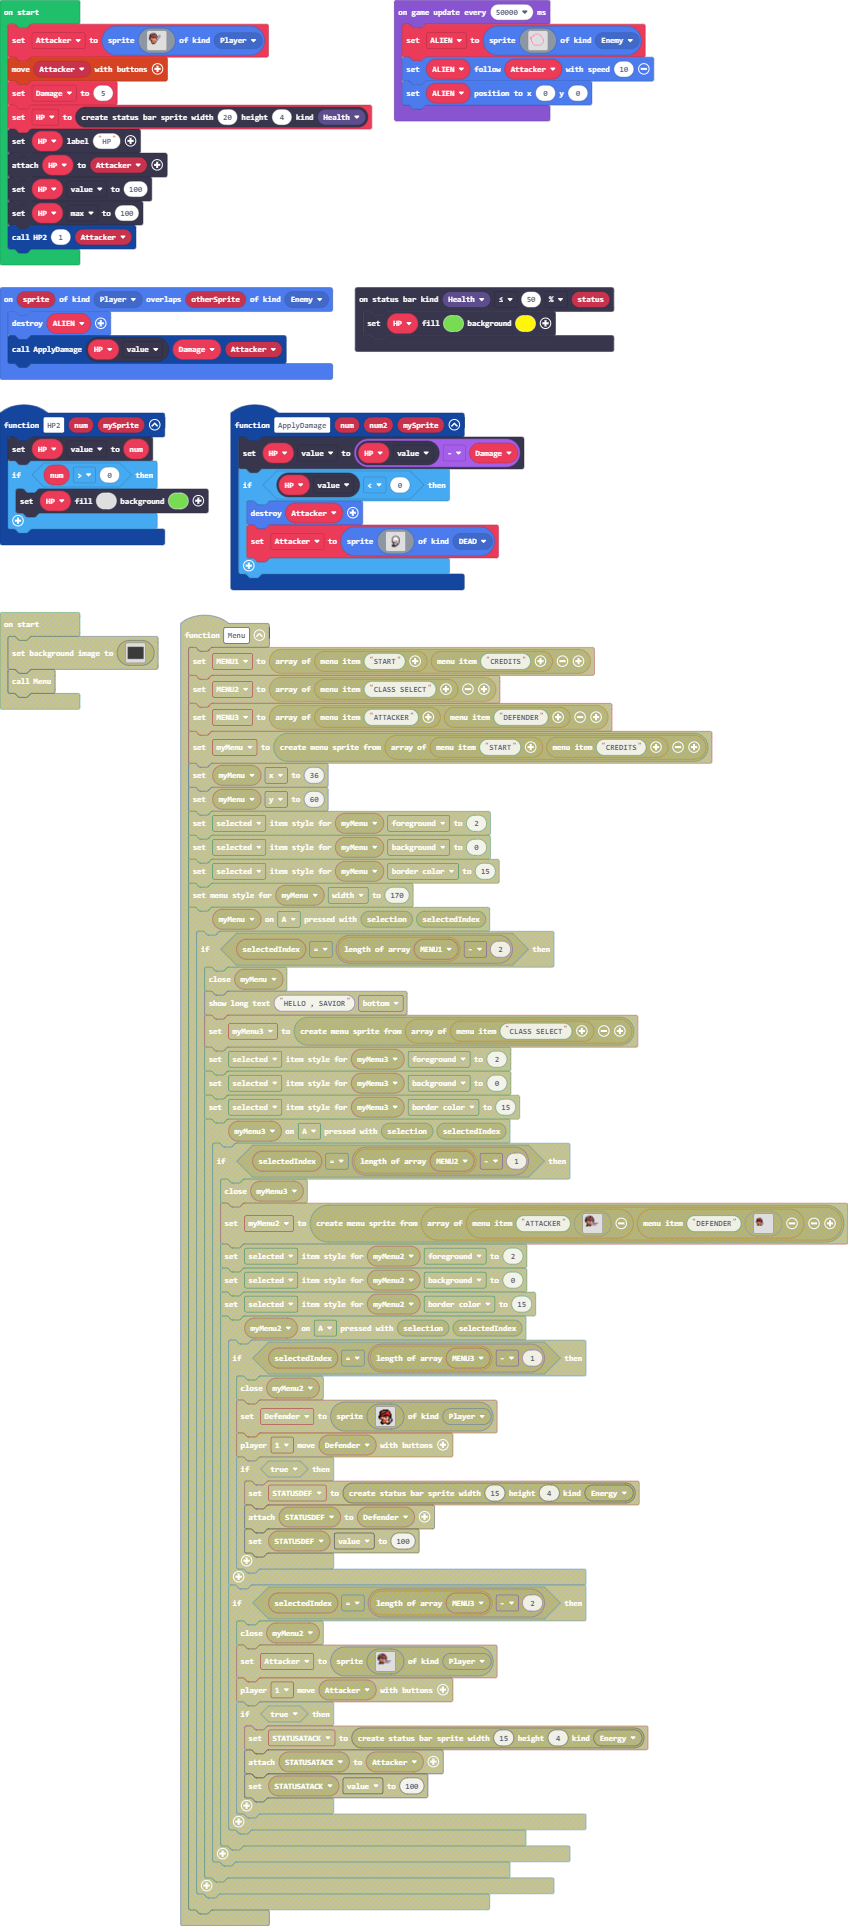
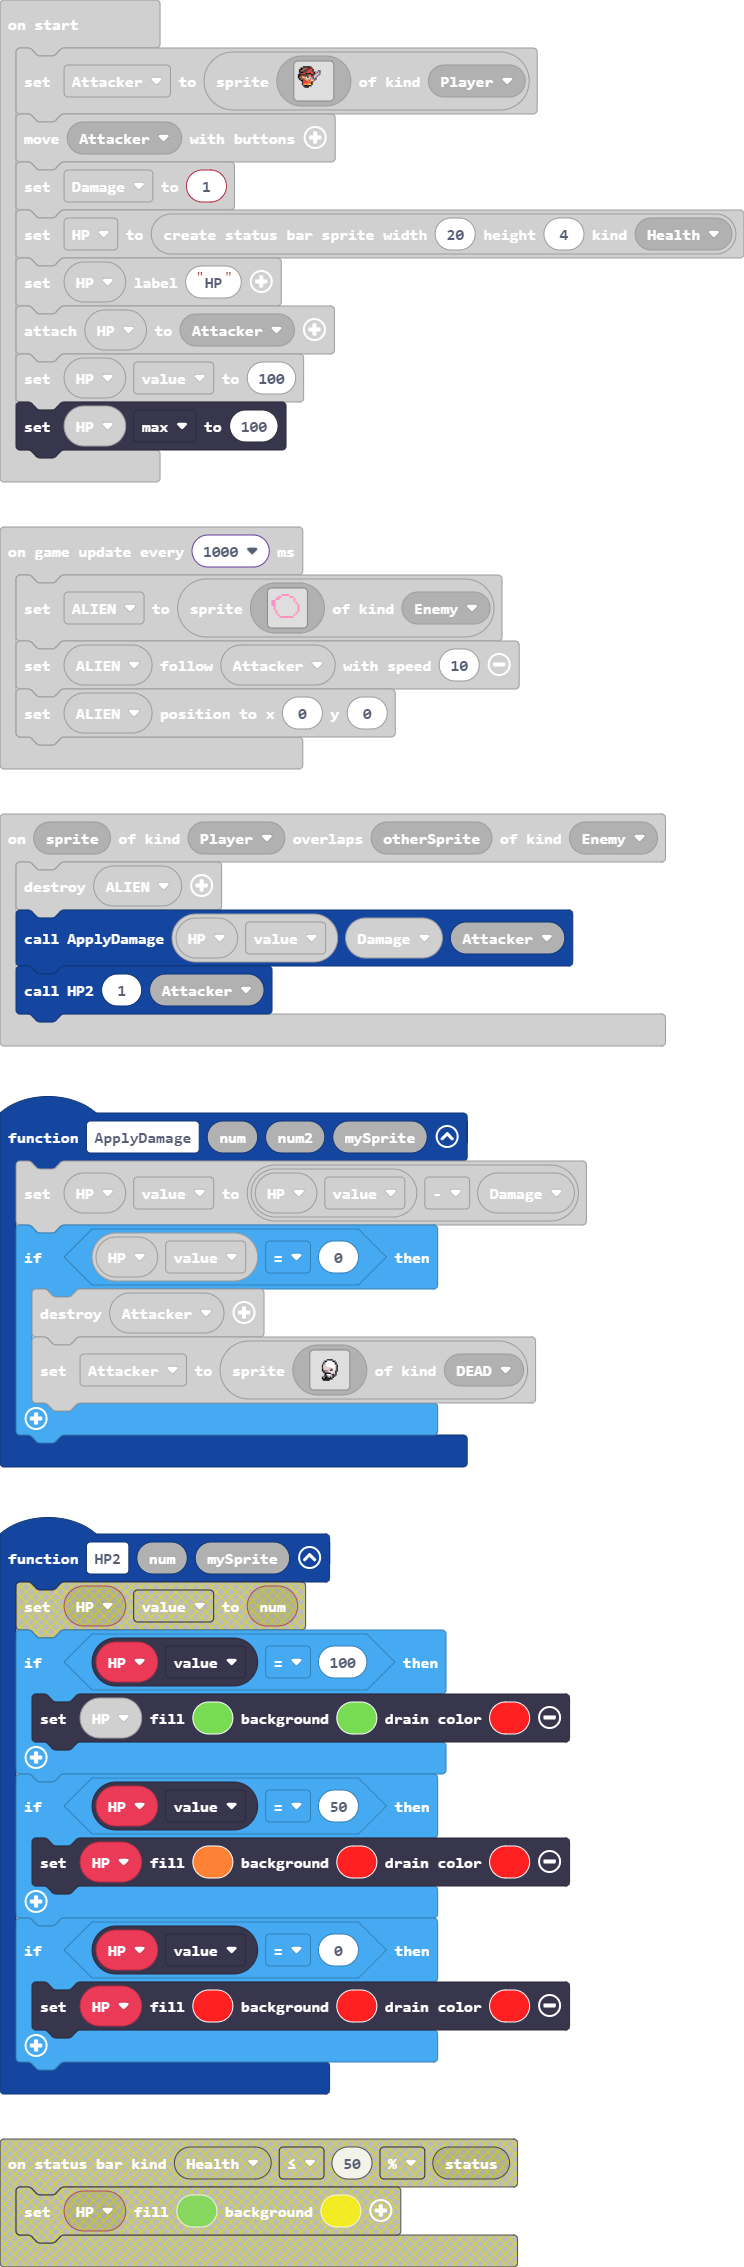
Update main.blocks, main.ts

diff --git a/main.ts b/main.ts
@@ -1,18 +1,20 @@
 namespace SpriteKind {
     export const DEAD = SpriteKind.create()
 }
-statusbars.onStatusReached(StatusBarKind.Health, statusbars.StatusComparison.LTE, statusbars.ComparisonType.Percentage, 50, function (status) {
-    HP.setColor(7, 5)
-})
 function HP2 (num: number, mySprite: Sprite) {
-    HP.value = num
-    if (num > 0) {
-        HP.setColor(0, 7)
+    if (HP.value == 100) {
+        HP.setColor(7, 7, 2)
+    }
+    if (HP.value == 50) {
+        HP.setColor(4, 2, 2)
+    }
+    if (HP.value == 0) {
+        HP.setColor(2, 2, 2)
     }
 }
 function ApplyDamage (num: number, num2: number, mySprite: Sprite) {
     HP.value = HP.value - Damage
-    if (HP.value < 0) {
+    if (HP.value == 0) {
         sprites.destroy(Attacker)
         Attacker = sprites.create(img`
             ........................
@@ -45,6 +47,7 @@ function ApplyDamage (num: number, num2: number, mySprite: Sprite) {
 sprites.onOverlap(SpriteKind.Player, SpriteKind.Enemy, function (sprite, otherSprite) {
     sprites.destroy(ALIEN)
     ApplyDamage(HP.value, Damage, Attacker)
+    HP2(1, Attacker)
 })
 let ALIEN: Sprite = null
 let HP: StatusBarSprite = null
@@ -77,14 +80,13 @@ Attacker = sprites.create(img`
     ........................
     `, SpriteKind.Player)
 controller.moveSprite(Attacker)
-Damage = 5
+Damage = 1
 HP = statusbars.create(20, 4, StatusBarKind.Health)
 HP.setLabel("HP")
 HP.attachToSprite(Attacker)
 HP.value = 100
 HP.max = 100
-HP2(1, Attacker)
-game.onUpdateInterval(50000, function () {
+game.onUpdateInterval(1000, function () {
     ALIEN = sprites.create(img`
         . . . . . . . . . . . . . . . . 
         . . . . . 3 3 3 3 . . . . . . . 
